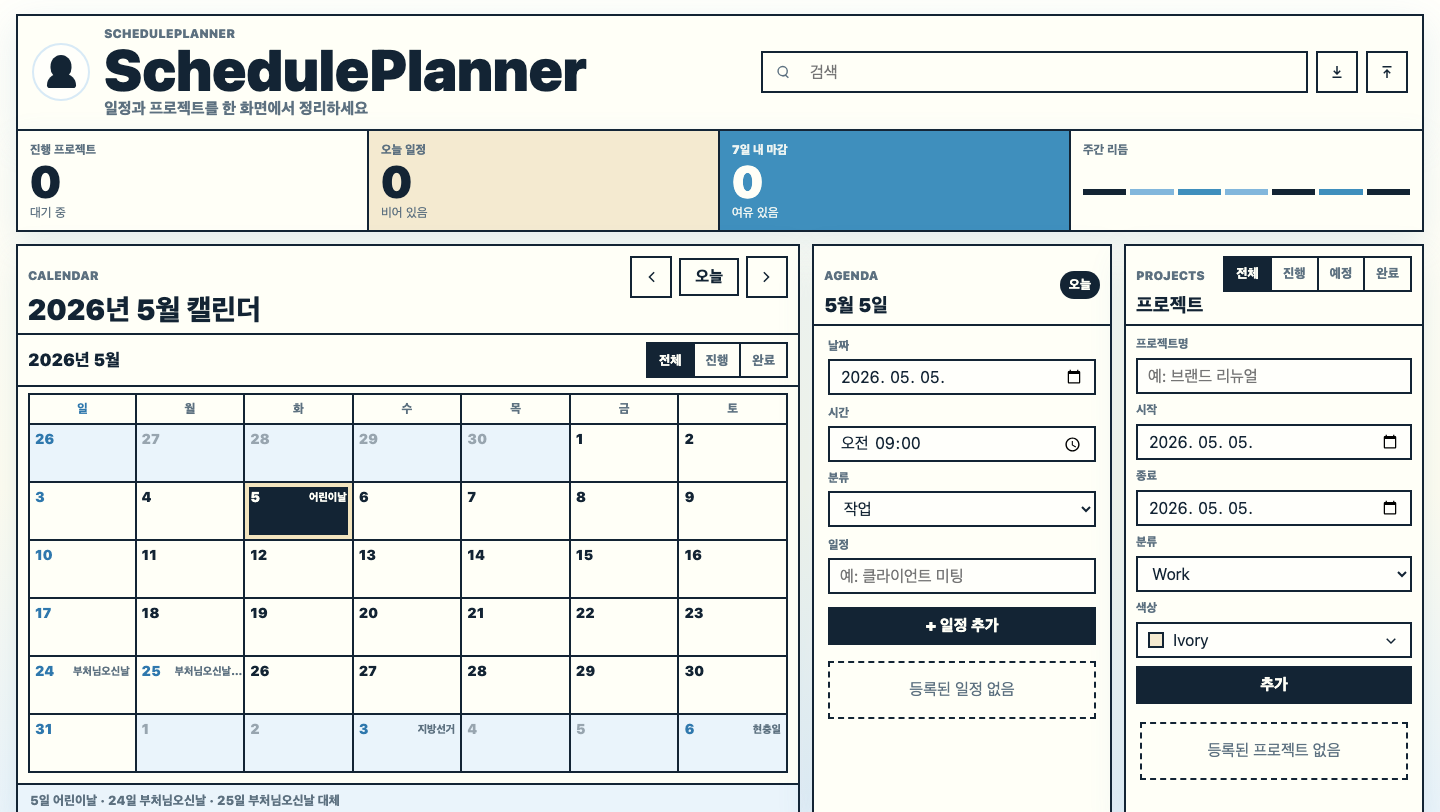
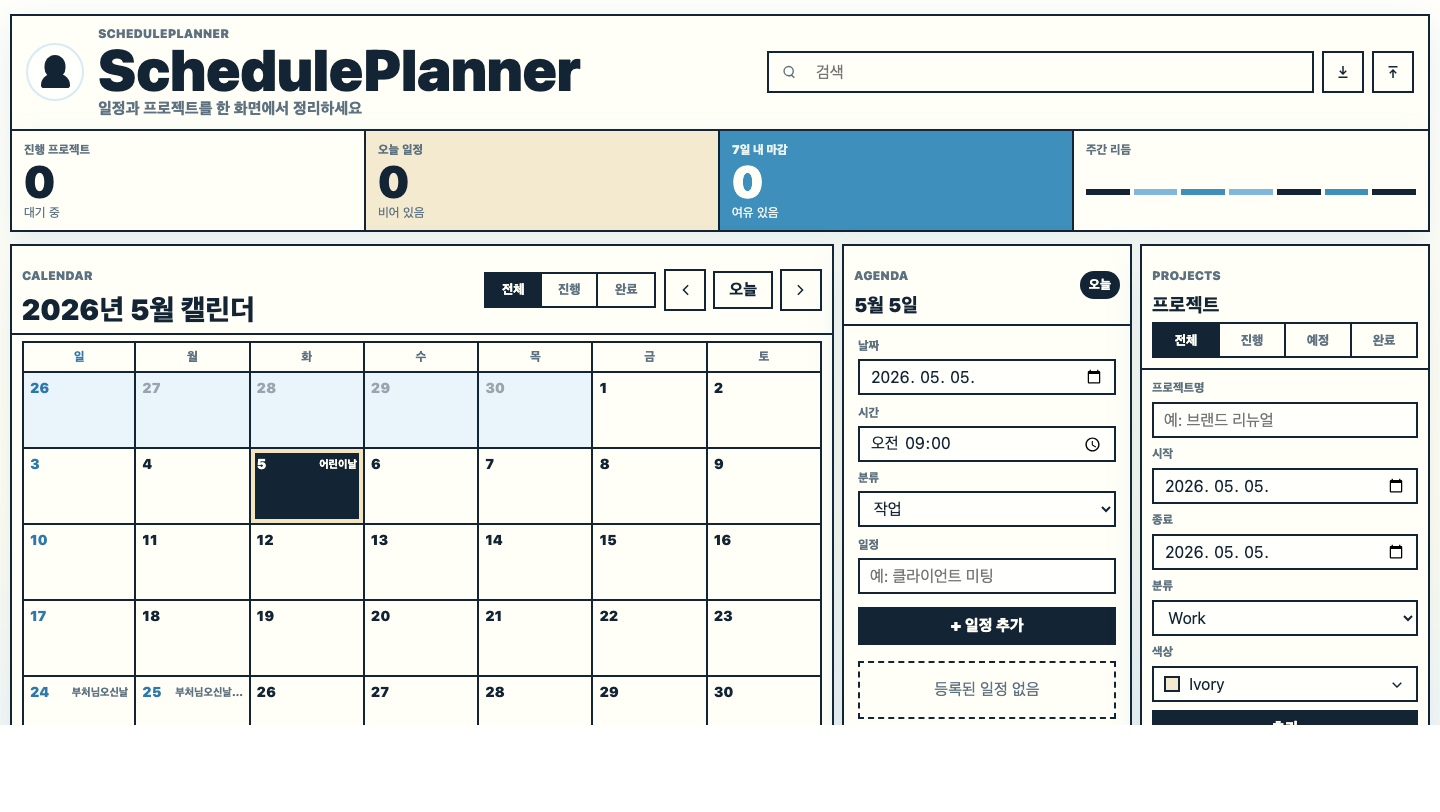
Move calendar filters into header

diff --git a/index.html b/index.html
@@ -43,18 +43,17 @@
       <section class="panel calendar-panel" aria-labelledby="calendarTitle">
         <div class="panel-head">
           <div><p class="kicker">Calendar</p><h1 id="calendarTitle">월간 캘린더</h1></div>
-          <div class="month-actions">
-            <button class="icon-btn" id="prevMonth" type="button" aria-label="이전 달"><svg viewBox="0 0 24 24"><path d="m15.5 5-7 7 7 7 1.4-1.4L11.3 12l5.6-5.6L15.5 5Z"/></svg></button>
-            <button class="text-btn" id="todayBtn" type="button">오늘</button>
-            <button class="icon-btn" id="nextMonth" type="button" aria-label="다음 달"><svg viewBox="0 0 24 24"><path d="m8.5 19 7-7-7-7-1.4 1.4 5.6 5.6-5.6 5.6L8.5 19Z"/></svg></button>
-          </div>
-        </div>
-        <div class="calendar-toolbar">
-          <strong class="month-label" id="monthLabel">2026년 5월</strong>
-          <div class="segmented" aria-label="프로젝트 표시">
-            <button class="segment active" type="button" data-cal-filter="all">전체</button>
-            <button class="segment" type="button" data-cal-filter="active">진행</button>
-            <button class="segment" type="button" data-cal-filter="done">완료</button>
+          <div class="calendar-head-actions">
+            <div class="segmented calendar-filter" aria-label="프로젝트 표시">
+              <button class="segment active" type="button" data-cal-filter="all">전체</button>
+              <button class="segment" type="button" data-cal-filter="active">진행</button>
+              <button class="segment" type="button" data-cal-filter="done">완료</button>
+            </div>
+            <div class="month-actions">
+              <button class="icon-btn" id="prevMonth" type="button" aria-label="이전 달"><svg viewBox="0 0 24 24"><path d="m15.5 5-7 7 7 7 1.4-1.4L11.3 12l5.6-5.6L15.5 5Z"/></svg></button>
+              <button class="text-btn" id="todayBtn" type="button">오늘</button>
+              <button class="icon-btn" id="nextMonth" type="button" aria-label="다음 달"><svg viewBox="0 0 24 24"><path d="m8.5 19 7-7-7-7-1.4 1.4 5.6 5.6-5.6 5.6L8.5 19Z"/></svg></button>
+            </div>
           </div>
         </div>
         <div class="weekdays" aria-hidden="true"><span>일</span><span>월</span><span>화</span><span>수</span><span>목</span><span>금</span><span>토</span></div>

diff --git a/src/styles.css b/src/styles.css
@@ -111,7 +111,7 @@ svg { width: 18px; height: 18px; fill: currentColor; }
 
 .workspace { display: grid; grid-template-columns: minmax(0, 3.9fr) repeat(2, minmax(290px, .64fr)); gap: 8px; align-items: stretch; }
 .panel { min-width: 0; border: 2px solid var(--ink); background: var(--paper); box-shadow: 0 14px 34px var(--shadow); }
-.calendar-panel, .workspace > aside.panel, .project-panel { min-height: 620px; }
+.calendar-panel, .workspace > aside.panel, .project-panel { min-height: 560px; }
 .project-panel { grid-column: auto; }
 .project-panel .panel-head { align-items: stretch; flex-direction: column; gap: 8px; }
 .project-panel h2 { white-space: nowrap; }
@@ -121,16 +121,14 @@ svg { width: 18px; height: 18px; fill: currentColor; }
   display: flex; align-items: flex-start; justify-content: space-between; gap: 14px;
   padding: 10px; border-bottom: 2px solid var(--ink);
 }
+.calendar-panel .panel-head { align-items: center; }
+.calendar-head-actions { display: flex; align-items: center; justify-content: flex-end; gap: 8px; flex-wrap: wrap; }
+.calendar-filter .segment { min-width: 56px; }
 .panel-head.compact { align-items: center; }
 h1, h2 { margin: 2px 0 0; font-size: clamp(1.42rem, 2.05vw, 2rem); font-weight: 950; line-height: .98; }
 h2 { font-size: clamp(1.1rem, 1.35vw, 1.45rem); }
 .calendar-panel h1 { font-size: clamp(1.45rem, 2vw, 2rem); white-space: nowrap; }
 .month-actions { display: flex; align-items: center; gap: 7px; }
-.calendar-toolbar {
-  display: flex; align-items: center; justify-content: space-between; gap: 12px;
-  padding: 7px 10px; border-bottom: 2px solid var(--ink);
-}
-.month-label { font-size: 1.08rem; font-weight: 950; }
 .segmented { display: inline-flex; max-width: 100%; min-width: 0; border: 2px solid var(--ink); background: var(--paper); }
 .segment {
   min-width: 0; min-height: 32px; padding: 0 11px; border: 0; border-right: 2px solid var(--ink);
@@ -300,7 +298,9 @@ input:focus-visible, select:focus-visible, .color-button:focus-visible { outline
   .stat:nth-child(2n) { border-right: 0; }
   .stat-value { font-size: 2.35rem; }
   .project-form, .two { grid-template-columns: 1fr; }
-  .panel-head, .calendar-toolbar { align-items: stretch; flex-direction: column; }
+  .panel-head { align-items: stretch; flex-direction: column; }
+  .calendar-head-actions { align-items: stretch; flex-direction: column; }
+  .calendar-filter { width: 100%; }
   .panel-head { padding: 11px; }
   .month-actions { justify-content: space-between; }
   .segmented { width: 100%; }

diff --git a/src/app.js b/src/app.js
@@ -101,7 +101,8 @@ function renderCalendar() {
   const first = new Date(y, m, 1);
   const startDate = add(first, -first.getDay());
   const label = new Intl.DateTimeFormat("ko-KR", { year: "numeric", month: "long" }).format(first);
-  document.getElementById("monthLabel").textContent = label;
+  const monthLabel = document.getElementById("monthLabel");
+  if (monthLabel) monthLabel.textContent = label;
   document.getElementById("calendarTitle").textContent = `${label} 캘린더`;
   const ps = projects(true);
   document.getElementById("calendar").innerHTML = Array.from({ length: 42 }, (_, i) => {